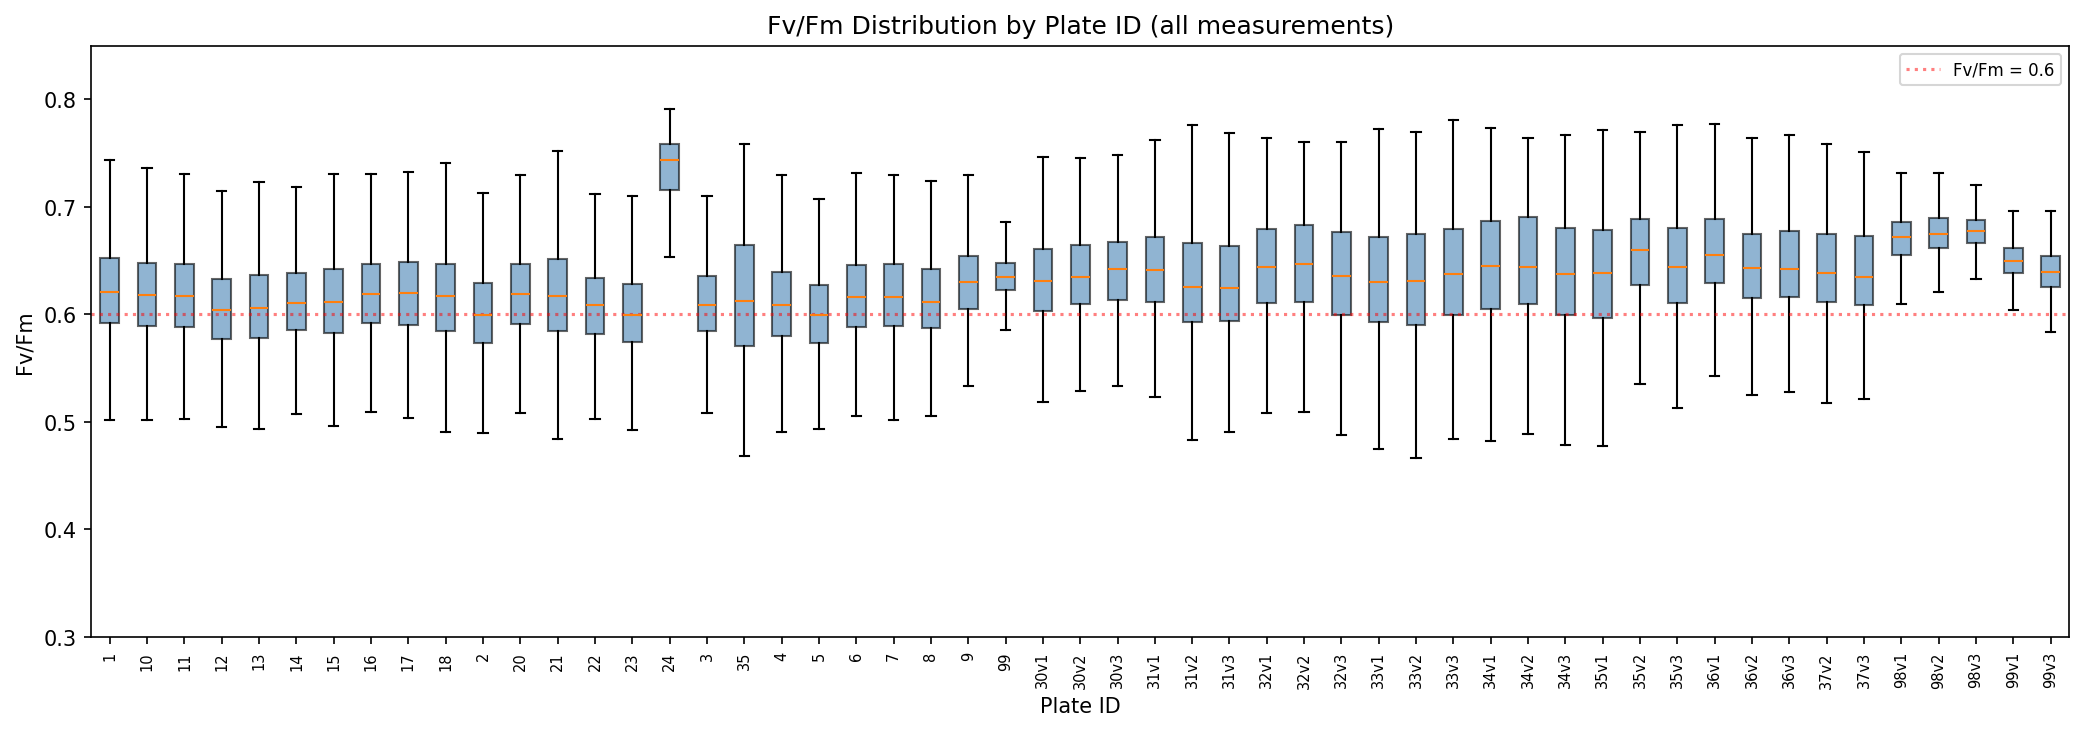
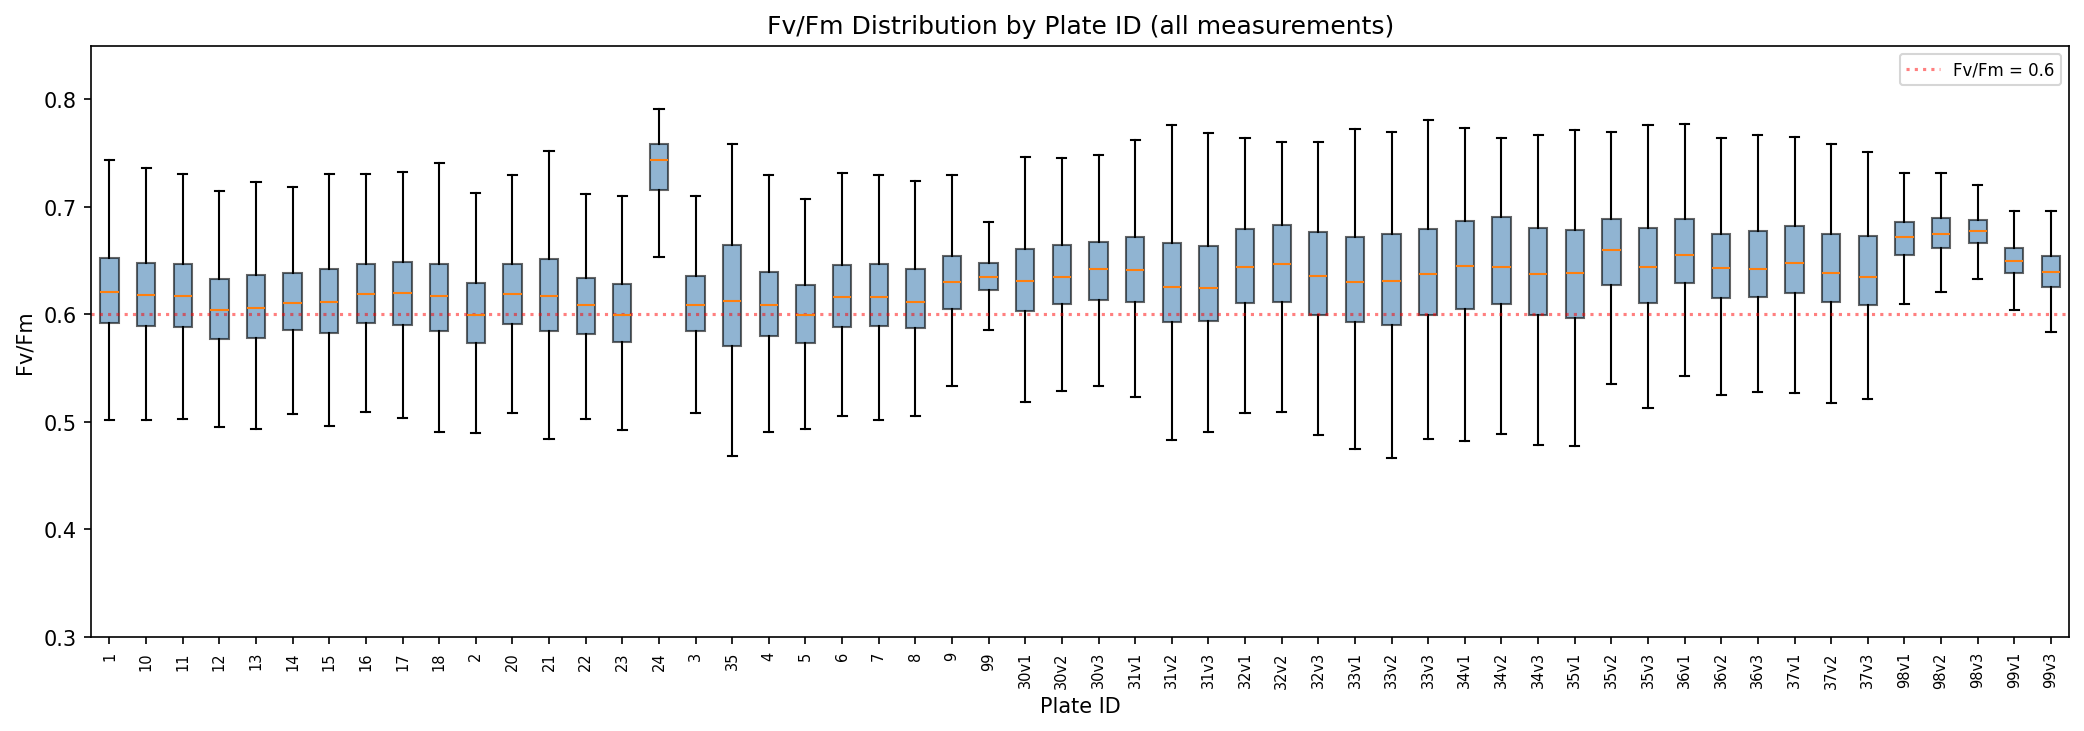
docs: sync report statistics with latest pipeline outputs

diff --git a/docs/index.md b/docs/index.md
@@ -19,28 +19,28 @@ This report documents the Chlamy-IMPI data processing pipeline, which extracts p
 
 | Metric | Value |
 |---|---|
-| Raw TIF/CSV pairs processed | **413** |
-| Plates passing error correction | **413 / 413** (100%) |
-| Unique plate IDs in database | **51** |
-| Unique plate IDs in experimental data | **53** (2 excluded: no identity mapping) |
+| Raw TIF/CSV pairs processed | **410** |
+| Plates passing error correction | **410 / 410** (100%) |
+| Unique plate IDs in database | **53** |
+| Unique plate IDs in experimental data | **53** (0 excluded — all plates have identity mapping) |
 | Light regimes | **8** |
-| Total wells in database | **144,188** |
-| Non-empty wells (valid signal) | **136,203** (94.5%) |
-| Empty wells (no algal colony) | **7,985** (5.5%) |
-| Timeseries data points | **18,764,054** |
+| Total wells in database | **152,981** |
+| Non-empty wells (valid signal) | **144,562** (94.5%) |
+| Empty wells (no algal colony) | **8,419** (5.5%) |
+| Timeseries data points | **9,968,330** |
 | Date range of experiments | Oct 2023 -- Apr 2026 |
 | Database columns | **726** |
-| Database rows | **144,188** |
+| Database rows | **152,981** |
 
 ### Photosynthetic parameter summary (non-empty wells)
 
 | Parameter | Mean | Median | Std |
 |---|---|---|---|
-| Fv/Fm | 0.634 | 0.634 | 0.050 |
-| Y(II) | 0.365 | 0.341 | 0.185 |
-| Y(NPQ) | 0.181 | 0.188 | 0.167 |
+| Fv/Fm | 0.635 | 0.635 | 0.050 |
+| Y(II) | 0.365 | 0.339 | 0.185 |
+| Y(NPQ) | 0.181 | 0.187 | 0.166 |
 
-The pipeline is **stable and reproducible**: the latest run (2026-04-28) added 1 new plate ID (37v3) and 25 new TIF/CSV pairs compared to the previous run (2026-04-09). Parameter values for previously-existing wells are unchanged. Three new plates required slight relaxations to the empirical interval-tolerance bounds in `database_creation/constants.py` (1–11 second widenings to admit one-off camera-cadence variations), and the `(plate, measurement, start_date, well_id)` uniqueness sanity check was tightened to use the full documented unique key after `34v2` was imaged with multiple measurements (light regimes) on the same start date.
+The pipeline is **stable and reproducible**: the latest run (2026-04-28) added 3 new plate IDs (`34v3`, `37v1`, `37v3`) compared to the previous run (2026-04-09). Parameter values for previously-existing wells are unchanged. Three new plates required slight relaxations to the empirical interval-tolerance bounds in `database_creation/constants.py` (1–11 second widenings to admit one-off camera-cadence variations), and the `(plate, measurement, start_date, well_id)` uniqueness sanity check was tightened to use the full documented unique key after `34v2` was imaged with multiple measurements (light regimes) on the same start date.
 
 ---
 
@@ -80,7 +80,7 @@ data/                          (raw TIF + CSV files)
 
 **Input data format:** Each experiment produces a paired `.tif` (multi-frame fluorescence images) and `.csv` (measurement timestamps) file. Each TIF contains alternating dark (F0) and light (Fm) frames -- two frames per measurement timepoint. The 384-well plates are arranged in a 16-row x 24-column grid.
 
-**Output:** A single canonical `database.csv` (144,188 rows x 726 columns) containing per-well photosynthetic parameters, timeseries data, and genetic identity for all experiments.
+**Output:** A single canonical `database.csv` (152,981 rows x 726 columns) containing per-well photosynthetic parameters, timeseries data, and genetic identity for all experiments.
 
 ---
 
@@ -123,7 +123,7 @@ Expected intervals (per time regime) are defined in `database_creation/constants
 
 ### Results
 
-- **413 / 413 plates pass** (100%)
+- **410 / 410 plates pass** (100%)
 - 4 plates have known timestamp anomalies (camera clock drift or DST changes) but **valid image data and correct frame counts**. They are **included in the final database**. These plates are exempt from timestamp monotonicity and interval-consistency checks but pass all other validation:
 
 | Plate | Reason |
@@ -260,47 +260,41 @@ A canonical `database.csv` is also written for backwards compatibility.
 
 The identity spreadsheet maps `(plate, well_id)` to mutant identifiers. Mismatches between the spreadsheet and the experimental data are logged as errors/warnings and result in data being silently excluded from the final database.
 
-**Plates in experimental data but not in the identity spreadsheet** (2 plate labels — excluded from database):
+**Plates in experimental data but not in the identity spreadsheet:** *(none — all 53 plates in experimental data have identity mapping)*
 
-| Plate | Notes |
-|---|---|
-| `34v3` | No identity mapping |
-| `35` | No identity mapping |
-
-These plates have valid segmentation and parameter data (Stage 2a) but cannot be included without mutant identity information.
-
-**Plates in identity spreadsheet but not in experimental data** (2 plates):
+**Plates in identity spreadsheet but not in experimental data** (1 plate):
 
 | Plate |
 |---|
-| `37v1` |
 | `99v2` |
 
-No TIF/CSV data exists for these plates; they appear in the identity spreadsheet but were never imaged (or not yet processed).
+No TIF/CSV data exists for this plate; it appears in the identity spreadsheet but was never imaged (or not yet processed).
 
-**Dropped (plate, well) combos** (765 total):
+**Dropped (plate, well) combos** (528 total):
 
-765 non-blank wells across 15 plates exist in the experimental data but have no entry in the identity spreadsheet. They are silently dropped from the database during the identity merge. The per-plate breakdown is:
+528 non-blank wells across 17 plates exist in the experimental data but have no entry in the identity spreadsheet. They are silently dropped from the database during the identity merge. The per-plate breakdown is:
 
 | Plate | Dropped wells | Notable pattern |
 |---|---|---|
-| `34v2` | 380 | Nearly all wells — identity coverage is sparse |
 | `37v3` | 130 | Scattered across plate (newly added in this run) |
 | `37v2` | 129 | Scattered across plate |
-| `20` | 4 | G12, K24, O23, O24 |
-| `21` | 16 | Scattered |
-| `22` | 14 | Scattered |
+| `37v1` | 129 | Scattered across plate (newly added in this run) |
 | `23` | 17 | Scattered |
-| `24` | 11 | Contiguous block N14–N24 |
-| `30v1` | 1 | B01 |
-| `30v2` | 1 | K13 |
-| `30v3` | 1 | J13 |
 | `31v1` | 17 | B02, L23, L24, and contiguous block P11–P24 |
 | `31v2` | 17 | Scattered |
 | `31v3` | 17 | Scattered |
+| `21` | 16 | Scattered |
+| `22` | 14 | Scattered |
+| `24` | 11 | Contiguous block N14–N24 |
 | `34v1` | 10 | Scattered |
+| `34v2` | 7 | Scattered (recovered via row+column reconstruction) |
+| `34v3` | 7 | Scattered (recovered via row+column reconstruction) |
+| `20` | 4 | G12, K24, O23, O24 |
+| `30v1` | 1 | B01 |
+| `30v2` | 1 | K13 |
+| `30v3` | 1 | J13 |
 
-Plates `34v2`, `37v2`, and `37v3` account for the majority of dropped wells due to incomplete identity spreadsheet coverage for these newer plates.
+Plates `37v1`, `37v2`, and `37v3` account for the majority of dropped wells due to incomplete identity spreadsheet coverage for these newer plates. Plates `34v2` and `34v3` had nearly-empty `New Location.4` columns in the identity spreadsheet; the pipeline now reconstructs the well ID from the row letter (`New Location.3`) and column number (`New Location.1`) as a fallback (see `chlamy_impi/database_creation/construct_identity_df.py`).
 
 ### Database versioning
 
@@ -311,20 +305,21 @@ The pipeline supports versioned databases. Each run is saved with its date, and 
 - Wells that change from empty to non-empty or vice versa
 - Parameter diffs exceeding thresholds (Fv/Fm > 0.05, Y(II) > 0.10)
 
-**Latest comparison (2026-04-09 vs 2026-04-28):** +5,369 rows (138,819 → 144,188), 1 plate added (37v3), 25 new TIF/CSV pairs incorporated. 314 wells transitioned from populated to empty and 13 from empty to populated, all on plates `31v2` (re-segmentation borderline cases) and `34v1`. 173 wells exceeded parameter-diff thresholds (concentrated on `31v2`, where global-min masking is sensitive at the boundary). Parameter values for all other previously-existing wells are unchanged.
+**Latest comparison (2026-04-09 vs 2026-04-28):** +14,162 rows (138,819 -> 152,981), 3 plates added (`34v3`, `37v1`, `37v3`). 750 wells transitioned from populated to empty and 15 from empty to populated. 173 wells exceeded parameter-diff thresholds. Parameter values for all other previously-existing wells are unchanged.
 
 ### Experiments per light regime
 
 | Light regime | Plate count |
 |---|---|
-| 10min-10min | 64 |
-| 1min-1min | 57 |
-| 2h-2h | 54 |
-| 20h_HL | 54 |
-| 30s-30s | 53 |
-| 20h_ML | 53 |
-| 1min-5min | 30 |
-| 5min-5min | 29 |
+| 10min-10min | 66 |
+| 1min-1min | 59 |
+| 20h_HL | 57 |
+| 20h_ML | 55 |
+| 2h-2h | 55 |
+| 30s-30s | 55 |
+| 1min-5min | 32 |
+| 5min-5min | 31 |
+
 
 ---
 
@@ -353,8 +348,8 @@ The pipeline generates per-light-regime timeseries mosaics showing Y(II) and Y(N
 - **100% of raw plates** pass automated error correction (4 plates exempt from timestamp checks)
 - **94.5% of wells** have valid signal (mask area >= 3 pixels)
 - **0 regression failures** for parameter values on previously-existing wells; 173 wells on plate `31v2` show small mask-boundary diffs (re-segmented after Stage 1 cache refresh)
-- **2 plate labels excluded** from the database (missing from identity spreadsheet)
-- **765 wells dropped** across 15 plates (no identity entry)
+- **0 plate labels excluded** from the database (all 53 plates have identity mapping)
+- **528 wells dropped** across 17 plates (no identity entry)
 
 ### Tiny mask wells
 
@@ -384,7 +379,7 @@ Four plates have known camera clock issues (overnight interruption or DST change
 ### Recommendations
 
 1. **Plate `31v2-M2_20h_HL`** should be flagged for manual review due to very low signal
-2. **Update the identity spreadsheet** to add entries for plates `34v3` and `35` (currently excluded from the database), to complete coverage for `34v1` (10 dropped wells), `34v2` (380 dropped wells), `37v2` (129 dropped wells), and `37v3` (130 dropped wells) — see [Identity spreadsheet coverage](#identity-spreadsheet-coverage)
+2. **Update the identity spreadsheet** to complete coverage for `34v1` (10 dropped wells), `34v2` (7 dropped wells), `34v3` (7 dropped wells), `37v1` (129 dropped wells), `37v2` (129 dropped wells), and `37v3` (130 dropped wells) — see [Identity spreadsheet coverage](#identity-spreadsheet-coverage). Also fix the missing `New Location.4` column entries for plates `34v2` and `34v3` in `Finalized Identities Phase I plates.xlsx` (currently reconstructed via fallback)
 3. Future DST-affected plates should be added to the exemption list in `error_correction/validation.py`
 4. The masking threshold (global min 3-sigma) uses the pixel-wise minimum over time, so borderline wells at plate edges where signal varies between frames are more likely to be excluded
 5. The empirical interval-tolerance bounds in `database_creation/constants.py` were widened by 1–11 seconds in this run to admit three plates with one-off camera-cadence variations (`30s-30s` upper from 605→620, `1min-1min` upper from 558→560, `20h_HL` upper from 1860→1862). These bounds are calibrated by observation and should be revisited if a plate ever fails by a much larger margin.
@@ -393,7 +388,7 @@ Four plates have known camera clock issues (overnight interruption or DST change
 
 ## Appendix: Database Schema
 
-The final `database.csv` contains 726 columns and 144,188 rows. One row per (plate x measurement x well).
+The final `database.csv` contains 726 columns and 152,981 rows. One row per (plate x measurement x well).
 
 ### Identification columns
 
